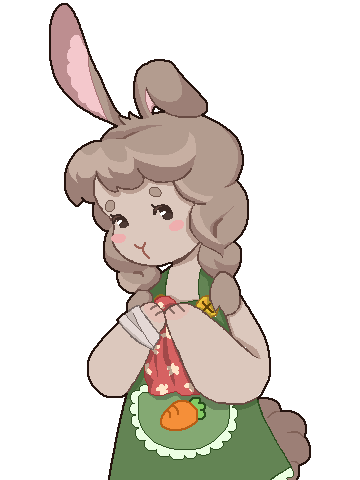
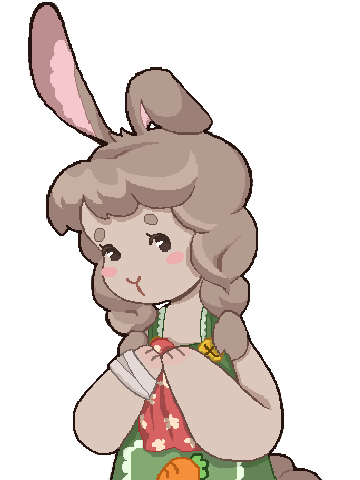
토끼 그림 고친 것으로 교체: 기본·놀람·웃음 다시, 시무룩(sad) 새로 추가 (360x480 그대로, data/guests/rabbit.tres expression_portraits). 그림 목록 갱신

diff --git a/docs/discord/art-list.md b/docs/discord/art-list.md
@@ -51,7 +51,7 @@
 ### 🐰 토끼
 > 수줍음이 많지만 당근 얘기만 나오면 말이 많아져요. 할머니 밥집의 첫 손님.
 말투: 존댓말, 말끝을 흐림 · 밥값: 🥕 당근
-✅ **기본 · 웃음 · 놀람** 완료! 게임에 들어갔어요 · 남은 것: 시무룩 · 우비 · 작은 얼굴 아이콘
+✅ **기본 · 웃음 · 놀람 · 시무룩** 완료! 게임에 들어갔어요 · 남은 것: 우비 · 작은 얼굴 아이콘
 
 ### 🐔 암탉
 > 새벽마다 마을을 깨우는 부지런한 수다쟁이. 할머니와 아침마다 수다 떨던 사이.
